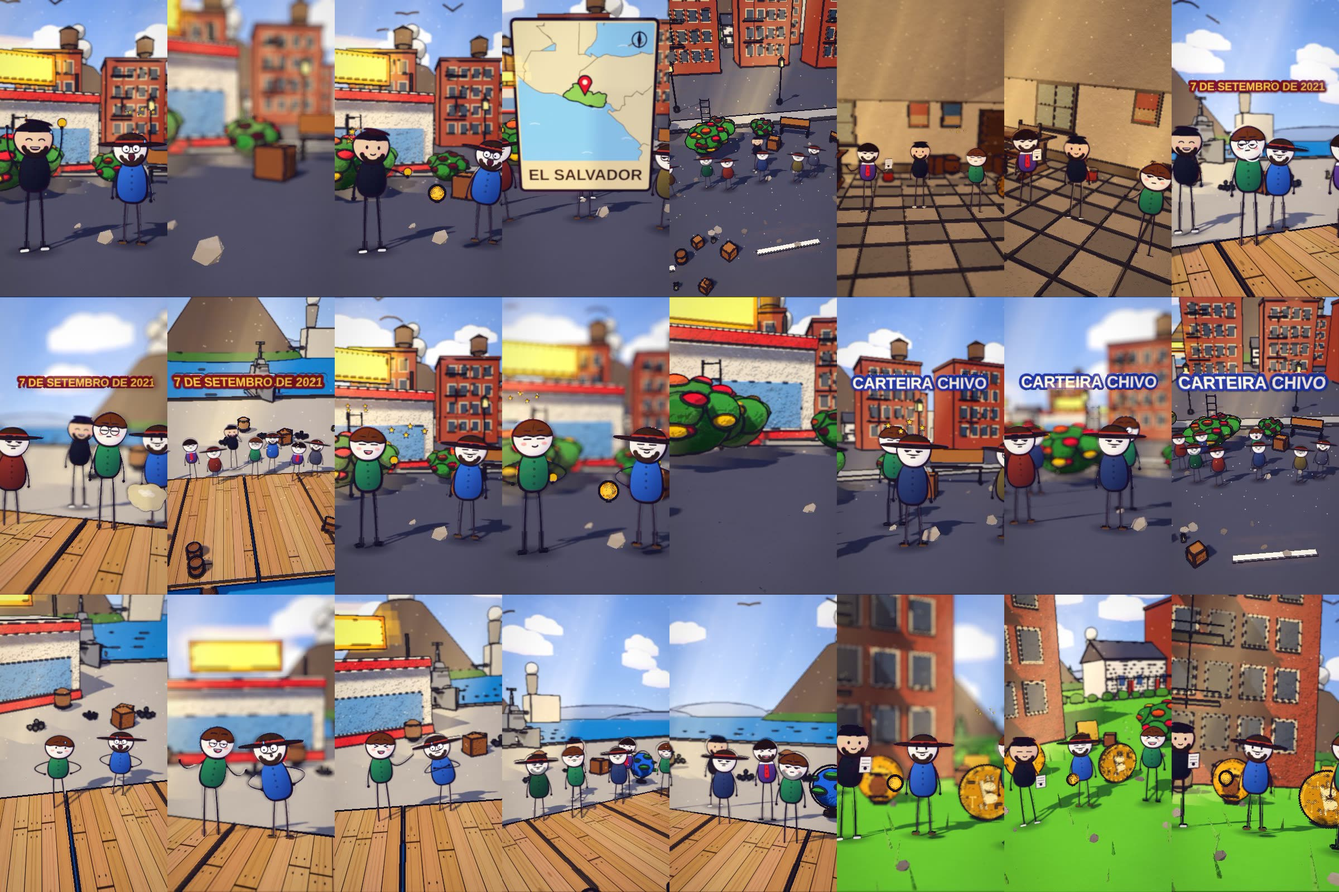
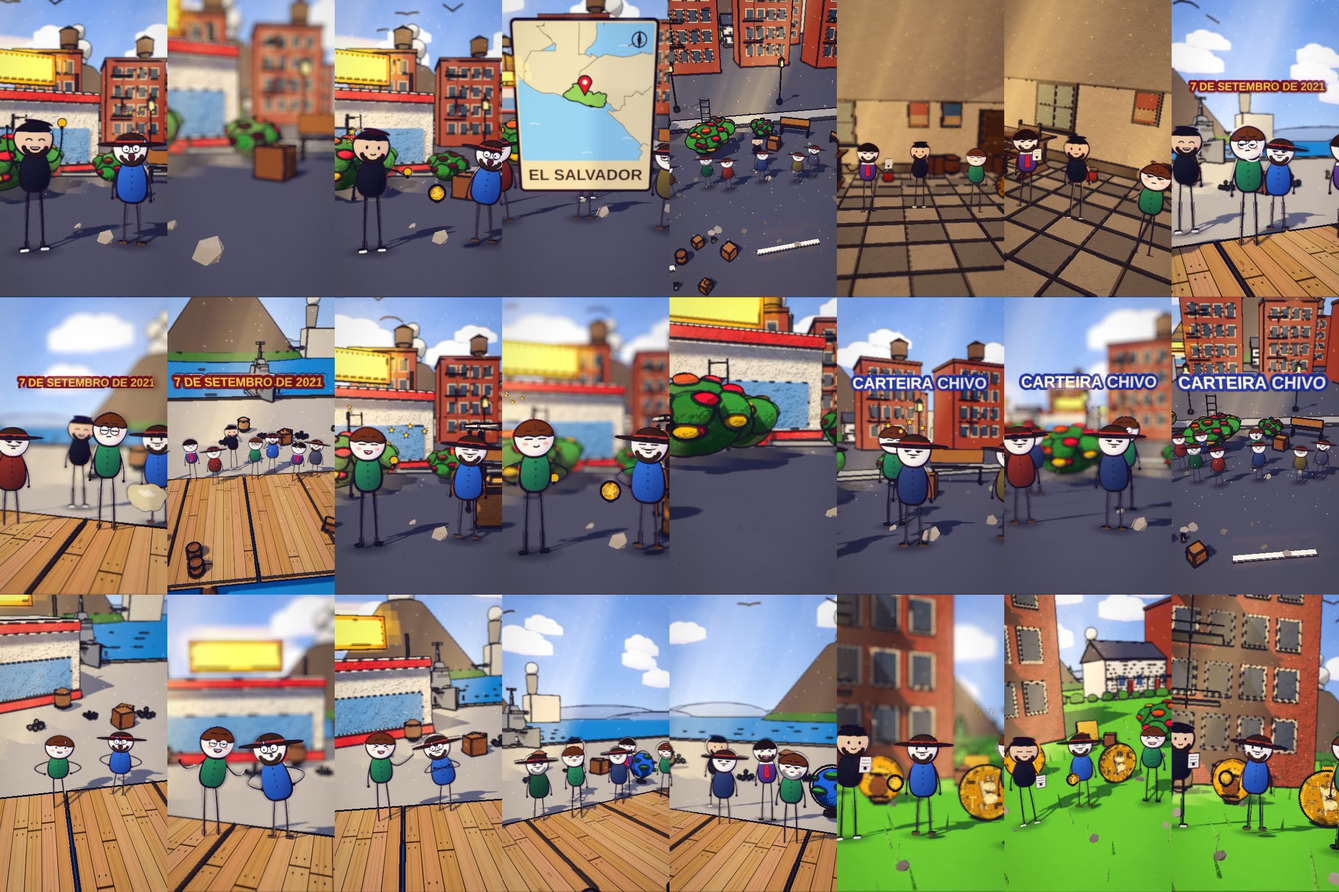
bitcoin2021 b4: close de um personagem com moeda (quadro vazio no instante de pagar)
Claude-Session: https://claude.ai/code/session_01HE8Dy3Tz5Mgz6d3rSUrMHS

Changed region(s): [[0.3438, 0.3371, 0.625, 0.6129], [0.5938, 0.5516, 0.625, 0.5822], [0.4375, 0.3984, 0.4688, 0.429]]

diff --git a/ferramenta-shorts/stories/bitcoin2021/spec.js b/ferramenta-shorts/stories/bitcoin2021/spec.js
@@ -9,14 +9,14 @@ const SPEC = {
     DEP: (v = 0, e = {}) => ({ _id: "dep", jacket: "#6a4a8a", pants: "#2a2d33", boots: "#1b1b1f", hat: "hair", hair: "#2a1a10", tie: "#d8282f", collar: "#f4f4f2", skin: ["#ffe2c2", "#f5c9a0", "#ecd0b6", "#c99067"][v % 4], ...(((v + 217) % 6 === 4 && true) ? { glasses: true } : {}), ...(([1, 5].includes((v + 217) % 6) && true) ? { beard: ['#3a2a1f', '#6b4a2a', '#8a8a86'][(v + 3) % 3] } : {}), ...((((v + 217) % 6 === 3) && true) ? { moustache: ['#4a3020', '#2a201a', '#8a8a86'][v % 3] } : {}), ...e }),
     POV: (v = 0, e = {}) => ({ _id: "pov", jacket: "#c9783a", pants: "#e8dcc0", boots: "#6a4a2a", hat: "straw", cap: "#3b2a1a", moustache: "#3a2a1f", build: "stout", skin: ["#ffe2c2", "#f5c9a0", "#ecd0b6", "#c99067"][v % 4], jacket: ["#3f6fb5", "#6a4a2a", "#2a5a3a", "#8a3a2a", "#3a4a6a", "#7a6a3a", "#5a5a62", "#b0524a"][v % 8], ...(((v + 245) % 6 === 4 && true) ? { glasses: true } : {}), ...(([1, 5].includes((v + 245) % 6) && true) ? { beard: ['#3a2a1f', '#6b4a2a', '#8a8a86'][(v + 3) % 3] } : {}), ...((((v + 245) % 6 === 3) && false) ? { moustache: ['#4a3020', '#2a201a', '#8a8a86'][v % 3] } : {}), ...e }),
     CLI: (v = 0, e = {}) => ({ _id: "cli", jacket: "#3a8a5a", pants: "#2a3a5a", boots: "#1b1b1f", hat: "hair", hair: "#6a3a1a", skin: ["#ffe2c2", "#f5c9a0", "#ecd0b6", "#c99067"][v % 4], ...(((v + 216) % 6 === 4 && true) ? { glasses: true } : {}), ...(([1, 5].includes((v + 216) % 6) && true) ? { beard: ['#3a2a1f', '#6b4a2a', '#8a8a86'][(v + 3) % 3] } : {}), ...((((v + 216) % 6 === 3) && true) ? { moustache: ['#4a3020', '#2a201a', '#8a8a86'][v % 3] } : {}), ...e }) },
-  assets: ["buildings/house_small", "buildings/shop", "kit/bitcoin", "kit/coin", "kit/globe", "kit/room_eua_stone", "kit/stall", "kit/volcano", "mk/Bookcase_2", "mk/Chair_1", "mk/Chest_Wood", "mk/Table_Large"],
+  assets: ["buildings/house_small", "buildings/shop", "kit/bitcoin", "kit/coin", "kit/globe", "kit/room_eua_stone", "kit/volcano", "mk/Bookcase_2", "mk/Chair_1", "mk/Chest_Wood", "mk/Table_Large"],
   kicks: [], flashes: [],
   shots: [
     S('b0', A[0], Math.round(A[0] + (A[1] - 1 + 1 - (A[0])) * 0.36) - 1, X, "day", { h: 2.3, d0: 8.4, d1: 7.4, vary: false, hero: { hero: 'any', frame: 'medium', minH: 0.07, main: 2 }, actors: [Object.assign(pp(X, "BUK", 0, -1.15, 1.3, "smile", { over: { hold: "coin" }, inter: { k: 'step', a: Math.round(A[0] + (A[1] - 1 - (A[0])) * 0.12), b: Math.round(A[0] + (A[1] - 1 - (A[0])) * 0.82), dir: 1, n: 2, ph: 0 } }), { gests: [[WS(20) - 4, WS(20) + 46, 'reach']] }), pp(X, "POV", 0, 1.15, 1.0, "surprised", { pose: 'talk', inter: { k: 'recoil', a: Math.round(A[0] + (A[1] - 1 - (A[0])) * 0.2), b: Math.round(A[0] + (A[1] - 1 - (A[0])) * 0.9), dir: -1, n: 2, ph: 3.14 } })], props: [{ asset: "buildings/shop", at: [X + -4.8, -11.0], s: 1.05, ry: 0.35, drop: false }, { asset: "kit/bitcoin", at: [X + 3.15, 0.3], s: 1.3, drop: false }, { asset: "kit/volcano", at: [X + 0, -120], s: 9.0, drop: false }, { asset: 'kit/coin', a: Math.max(A[0] + 4, WS(20) - 20), b: A[1] - 1, at: [X + 0.35, 1.8], y: DK + 1.25, s: 0.32, drop: false }], fx: [{ k: 'stars', a: A[0] + 6, b: A[0] + 40, at: [X + 1.5, DK + 1.6, 0.8], s: 0.8 }, { k: 'birds', a: A[0], b: A[1] - 1, at: [X, DK + 4.5, -30], n: 4, dir: 1, off: 8 }, { k: "stars", a: WS(20), b: WS(20) + 28, at: [X + -1.15, DK + 0.5, 2.5], s: 1.1 }] }), { ...S('b0_d', Math.round(A[0] + (A[1] - 1 + 1 - (A[0])) * 0.36), Math.round(A[0] + (A[1] - 1 + 1 - (A[0])) * 0.6) - 1, X, "day", { h: 2.3, d0: 8.4, d1: 7.4, vary: false, hero: { hero: 'none', detalhe: true }, actors: [Object.assign(pp(X, "BUK", 0, -1.15, 1.3, "smile", { over: { hold: "coin" } }), { gests: [[WS(20) - 4, WS(20) + 46, 'reach']] }), pp(X, "POV", 0, 1.15, 1.0, "surprised", { pose: 'stand' })], props: [{ asset: "buildings/shop", at: [X + -4.8, -11.0], s: 1.05, drop: false, ry: 0.35, drop: false }, { asset: "kit/bitcoin", at: [X + 3.15, 0.3], s: 1.3, drop: false }, { asset: "kit/volcano", at: [X + 0, -120], s: 9.0, drop: false }, { asset: 'kit/coin', a: Math.max(A[0] + 4, WS(20) - 20), b: A[1] - 1, at: [X + 0.35, 1.8], y: DK + 1.25, s: 0.32, drop: false }], fx: [{ k: 'stars', a: A[0] + 6, b: A[0] + 40, at: [X + 1.5, DK + 1.6, 0.8], s: 0.8 }, { k: 'birds', a: A[0], b: A[1] - 1, at: [X, DK + 4.5, -30], n: 4, dir: 1, off: 8 }, { k: "stars", a: WS(20), b: WS(20) + 28, at: [X + -1.15, DK + 0.5, 2.5], s: 1.1 }] }), cam: [{ f: Math.round(A[0] + (A[1] - 1 + 1 - (A[0])) * 0.36), at: [X + 1.5, DK + 0.975, 0.3], d: 4.2, az: -14, el: 10, fov: 44 }, { f: Math.round(A[0] + (A[1] - 1 + 1 - (A[0])) * 0.6) - 1, at: [X + 1.5, DK + 0.975, 0.3], d: 3.4, az: -8, el: 9, fov: 44 }], nocut: true, vary: false, glide: true, glideN: 34 }, { ...S('b0_v', Math.round(A[0] + (A[1] - 1 + 1 - (A[0])) * 0.6), A[1] - 1, X, "day", { h: 2.3, d0: 8.4, d1: 7.4, vary: false, hero: { hero: 'any', frame: 'medium', minH: 0.07, main: 2 }, actors: [Object.assign(pp(X, "BUK", 0, -1.15, 1.3, "smile", { over: { hold: "coin" }, inter: { k: 'step', a: Math.round(A[0] + (A[1] - 1 - (A[0])) * 0.12), b: Math.round(A[0] + (A[1] - 1 - (A[0])) * 0.82), dir: 1, n: 2, ph: 0 } }), { gests: [[WS(20) - 4, WS(20) + 46, 'reach']] }), pp(X, "POV", 0, 1.15, 1.0, "surprised", { pose: 'talk', inter: { k: 'recoil', a: Math.round(A[0] + (A[1] - 1 - (A[0])) * 0.2), b: Math.round(A[0] + (A[1] - 1 - (A[0])) * 0.9), dir: -1, n: 2, ph: 3.14 } })], props: [{ asset: "buildings/shop", at: [X + -4.8, -11.0], s: 1.05, drop: false, ry: 0.35, drop: false }, { asset: "kit/bitcoin", at: [X + 3.15, 0.3], s: 1.3, drop: false }, { asset: "kit/volcano", at: [X + 0, -120], s: 9.0, drop: false }, { asset: 'kit/coin', a: Math.max(A[0] + 4, WS(20) - 20), b: A[1] - 1, at: [X + 0.35, 1.8], y: DK + 1.25, s: 0.32, drop: false }], fx: [{ k: 'stars', a: A[0] + 6, b: A[0] + 40, at: [X + 1.5, DK + 1.6, 0.8], s: 0.8 }, { k: 'birds', a: A[0], b: A[1] - 1, at: [X, DK + 4.5, -30], n: 4, dir: 1, off: 8 }, { k: "stars", a: WS(20), b: WS(20) + 28, at: [X + -1.15, DK + 0.5, 2.5], s: 1.1 }] }), glide: true, glideN: 34 },
     { ...{ ...S('b1', A[1], A[2] - 1, X, "day", { h: 2.4, d0: 11.0, d1: 27.0, el: 10, fov: 46, cx: 0.0, cz: -1.5, hero: { hero: 'none', wide: true }, vary: false, nocut: true, trans: 'dissolve', actors: [Object.assign(pp(X, "BUK", 0, 0.0, -0.4, "smug"), { gests: [[WS(32) - 4, WS(32) + 46, 'think']] }), pp(X, "POV", 0, -8.05, 0.84, "neutral", { look: -0.25, seed: 0 }), pp(X, "POV", 1, -5.79, 1.32, "neutral", { look: 0.25, seed: 1 }), pp(X, "POV", 2, -3.53, 0.96, "neutral", { look: 0.0, seed: 2 }), pp(X, "POV", 3, -2.26, 1.44, "neutral", { look: 0.15, seed: 3 }), pp(X, "POV", 4, 0.0, 1.08, "neutral", { look: -0.25, seed: 0 }), pp(X, "POV", 5, 2.26, 1.56, "neutral", { look: 0.25, seed: 1 }), pp(X, "POV", 6, 3.53, 1.2, "neutral", { look: 0.0, seed: 2 }), pp(X, "POV", 0, 5.79, 0.84, "neutral", { look: 0.15, seed: 3 })], props: [{ asset: "kit/volcano", at: [X + 0, -120], s: 9.0, drop: false }], fx: [{ k: 'map', a: WS(23, -2), b: Math.min(A[2] - 1, WS(23, -2) + 54), text: "EL SALVADOR", geo: {"polys": [[656, 174, 654, 177, 652, 178, 647, 187, 646, 188, 645, 181, 643, 181, 640, 183, 638, 186, 641, 190, 643, 190, 646, 192, 654, 221, 652, 226, 647, 234, 643, 241, 638, 246, 632, 264, 627, 294, 631, 321, 629, 346, 631, 352, 631, 360, 627, 361, 625, 361, 623, 356, 623, 352, 626, 348, 627, 341, 625, 338, 623, 345, 619, 348, 617, 350, 614, 353, 617, 360, 620, 365, 621, 369, 620, 373, 619, 388, 618, 387, 617, 385, 613, 385, 613, 391, 613, 394, 610, 397, 609, 399, 612, 401, 614, 402, 618, 402, 621, 409, 621, 415, 615, 420, 613, 425, 609, 430, 607, 436, 606, 440, 609, 452, 613, 460, 617, 466, 622, 467, 621, 473, 617, 477, 610, 480, 603, 480, 590, 477, 585, 477, 583, 475, 583, 473, 579, 468, 573, 463, 569, 463, 563, 462, 553, 458, 548, 457, 541, 461, 534, 465, 515, 458, 501, 454, 490, 449, 486, 448, 484, 448, 482, 450, 479, 454, 478, 455, 477, 456, 475, 457, 475, 455, 469, 447, 460, 437, 425, 408, 412, 391, 405, 378, 398, 371, 379, 358, 374, 353, 355, 335, 341, 324, 341, 320, 347, 314, 350, 314, 353, 318, 358, 323, 360, 323, 364, 321, 364, 319, 383, 318, 387, 317, 390, 313, 392, 309, 393, 305, 393, 301, 396, 298, 402, 297, 406, 297, 408, 295, 406, 288, 404, 272, 404, 267, 404, 264, 406, 262, 415, 262, 431, 263, 434, 262, 441, 253, 447, 246, 451, 243, 455, 242, 458, 248, 472, 257, 475, 256, 476, 256, 476, 254, 476, 250, 480, 247, 487, 243, 494, 238, 501, 229, 507, 224, 513, 223, 515, 221, 513, 218, 514, 213, 516, 208, 519, 204, 523, 204, 525, 202, 524, 199, 525, 196, 528, 191, 537, 187, 542, 189, 546, 194, 552, 198, 559, 200, 565, 199, 570, 196, 573, 195, 577, 196, 578, 195, 579, 192, 580, 192, 584, 193, 587, 194, 589, 193, 590, 191, 591, 190, 592, 189, 599, 190, 606, 188, 615, 184, 620, 182, 623, 182, 626, 180, 629, 175, 638, 173, 656, 174], [-1717, -1087, -1549, -1101, -1325, -1011, -1094, -1001, -1017, -1033, -941, -1006, -847, -905, -776, -848, -721, -856, -659, -891, -611, -879, -544, -798, -492, -735, -482, -694, -434, -642, -342, -610, -340, -562, -364, -394, -336, -302, -343, -302, -336, -265, -250, -128, -215, -92, -149, -67, -40, -73, 40, -94, 89, -87, 76, -104, 144, -182, 186, -276, 306, -301, 376, -295, 378, -303, 393, -243, 352, -174, 357, -150, 352, -137, 321, -74, 299, -79, 255, -36, 135, -29, 93, 22, 145, 70, 92, 97, 33, 168, 24, 204, -83, 110, -122, 89, -145, 77, -173, 80, -256, 124, -444, 62, -601, 1, -698, -45, -828, -121, -913, -209, -899, -242, -884, -293, -956, -406, -1044, -500, -1080, -524, -1083, -550, -1151, -580, -1163, -588, -1157, -636, -1207, -673, -1258, -722, -1297, -759, -1362, -826, -1398, -885, -1434, -973, -1444, -996, -1504, -1014, -1557, -1035, -1543, -922, -1467, -841, -1435, -798, -1411, -754, -1359, -687, -1344, -681, -1309, -602, -1270, -516, -1241, -492, -1199, -460, -1207, -396, -1272, -465, -1346, -519, -1366, -591, -1439, -686, -1498, -689, -1558, -737, -1518, -750, -1516, -755, -1564, -859, -1625, -927, -1661, -992, -1681, -1038], [656, 174, 629, 175, 623, 182, 615, 184, 599, 190, 591, 190, 589, 193, 584, 193, 579, 192, 577, 196, 570, 196, 559, 200, 546, 194, 537, 187, 525, 196, 525, 202, 519, 204, 514, 213, 515, 221, 507, 224, 494, 238, 480, 247, 476, 254, 475, 256, 458, 248, 451, 243, 441, 253, 431, 263, 406, 262, 404, 267, 406, 288, 406, 297, 396, 298, 393, 305, 390, 313, 383, 318, 364, 311, 356, 302, 354, 295, 346, 290, 334, 290, 336, 285, 335, 281, 333, 276, 337, 259, 331, 253, 318, 254, 312, 248, 299, 250, 286, 256, 283, 252, 282, 247, 271, 244, 266, 240, 257, 234, 246, 224, 239, 219, 224, 216, 224, 212, 236, 202, 234, 189, 233, 181, 238, 168, 250, 163, 270, 148, 292, 129, 302, 121, 314, 118, 324, 111, 338, 108, 350, 114, 361, 114, 394, 119, 424, 116, 445, 110, 462, 105, 458, 100, 493, 109, 524, 104, 552, 110, 563, 116, 567, 114, 561, 111, 613, 142, 599, 136, 589, 138, 590, 145, 596, 144, 606, 148, 614, 158, 620, 155, 629, 158, 628, 152, 622, 147, 646, 168, 656, 174], [428, 74, 417, 80, 413, 80, 418, 76, 427, 72, 434, 70, 440, 71, 428, 74], [466, 68, 461, 73, 460, 71, 463, 67, 466, 65, 469, 65, 468, 67, 466, 68], [22, 206, 24, 204, 25, 200, 27, 196, 26, 191, 25, 187, 27, 181, 27, 176, 28, 173, 31, 172, 33, 168, 24, 156, 24, 154, 25, 150, 32, 138, 41, 123, 51, 106, 57, 97, 78, 97, 92, 97, 110, 97, 129, 97, 142, 97, 147, 96, 146, 90, 147, 83, 149, 76, 149, 74, 145, 70, 138, 68, 134, 65, 134, 61, 132, 56, 128, 51, 121, 45, 110, 39, 100, 31, 93, 22, 86, 15, 81, 13, 80, 11, 95, 11, 109, 11, 109, -2, 109, -15, 109, -29, 135, -29, 165, -29, 197, -29, 222, -29, 237, -29, 236, -11, 235, 9, 235, 24, 234, 43, 233, 64, 232, 91, 231, 109, 232, 110, 240, 109, 252, 109, 255, 109, 259, 111, 262, 111, 268, 115, 276, 119, 280, 112, 278, 109, 276, 107, 276, 105, 302, 121, 299, 124, 292, 129, 280, 139, 270, 148, 260, 155, 250, 163, 249, 163, 238, 168, 236, 171, 233, 181, 232, 183, 234, 189, 236, 197, 236, 202, 228, 207, 224, 212, 223, 215, 221, 215, 219, 214, 213, 216, 210, 216, 208, 217, 207, 220, 209, 225, 210, 228, 208, 229, 201, 232, 198, 235, 195, 240, 192, 242, 189, 241, 187, 242, 182, 246, 175, 252, 171, 257, 171, 261, 171, 264, 145, 253, 136, 251, 98, 251, 82, 246, 63, 237, 51, 229, 22, 206], [223, 215, 224, 216, 236, 219, 239, 219, 244, 222, 246, 224, 248, 227, 257, 234, 259, 236, 266, 240, 268, 243, 271, 244, 277, 245, 282, 247, 282, 248, 283, 252, 284, 256, 286, 256, 289, 254, 299, 250, 307, 246, 312, 248, 315, 252, 318, 254, 325, 253, 331, 253, 336, 257, 337, 259, 334, 271, 333, 276, 333, 280, 335, 281, 336, 283, 336, 285, 331, 289, 329, 290, 330, 297, 326, 301, 323, 304, 316, 305, 305, 306, 288, 302, 276, 297, 270, 297, 272, 299, 277, 300, 284, 303, 282, 304, 257, 297, 228, 283, 211, 281, 192, 277, 180, 268, 171, 264, 171, 261, 171, 257, 175, 252, 182, 246, 187, 242, 189, 241, 192, 242, 195, 240, 198, 235, 201, 232, 208, 229, 210, 228, 209, 225, 207, 220, 208, 217, 210, 216, 213, 216, 219, 214, 221, 215, 223, 215], [697, 564, 697, 565, 696, 566, 694, 568, 692, 569, 686, 566, 681, 562, 678, 564, 677, 568, 675, 570, 672, 571, 671, 573, 671, 587, 671, 601, 675, 601, 682, 606, 685, 609, 686, 611, 685, 612, 680, 615, 675, 619, 673, 624, 677, 631, 678, 636, 678, 642, 677, 644, 667, 650, 665, 653, 665, 654, 670, 658, 673, 663, 675, 668, 675, 672, 671, 664, 664, 656, 658, 652, 658, 641, 656, 635, 647, 629, 639, 625, 634, 626, 637, 632, 646, 640, 647, 644, 646, 648, 641, 647, 635, 645, 629, 645, 625, 642, 616, 633, 622, 624, 624, 619, 624, 608, 622, 603, 615, 594, 604, 585, 589, 578, 582, 572, 563, 567, 556, 564, 551, 559, 550, 554, 552, 548, 547, 540, 526, 525, 513, 519, 511, 516, 509, 515, 511, 525, 516, 532, 530, 538, 534, 541, 535, 546, 527, 555, 523, 557, 522, 562, 519, 563, 516, 560, 505, 547, 484, 540, 480, 536, 471, 523, 468, 512, 469, 505, 478, 493, 481, 487, 480, 484, 481, 480, 477, 476, 469, 472, 464, 469, 465, 467, 475, 462, 475, 458, 475, 457, 477, 456, 478, 455, 479, 454, 482, 450, 484, 448, 486, 448, 490, 449, 501, 454, 515, 458, 534, 465, 541, 461, 548, 457, 553, 458, 563, 462, 569, 463, 573, 463, 579, 468, 583, 473, 583, 475, 585, 477, 590, 477, 603, 480, 610, 480, 617, 477, 621, 473, 622, 467, 624, 470, 626, 475, 627, 480, 636, 500, 643, 510, 658, 530, 665, 534, 676, 550, 680, 552, 682, 557, 694, 561, 697, 564], [237, -29, 236, -35, 238, -40, 244, -42, 252, -38, 255, -36, 258, -37, 261, -40, 266, -47, 277, -63, 281, -74, 285, -77, 292, -77, 297, -76, 293, -68, 297, -67, 301, -68, 309, -67, 312, -59, 311, -51, 303, -31, 302, -24, 299, -14, 304, -7, 299, 2, 297, 7, 297, 16, 300, 32, 296, 56, 289, 66, 285, 70, 278, 81, 269, 84, 256, 100, 254, 105, 255, 109, 252, 109, 240, 109, 232, 110, 231, 109, 232, 91, 233, 64, 234, 43, 235, 24, 235, 9, 236, -11, 237, -29], [328, -1, 323, 9, 322, 6, 324, -1, 327, -4, 329, -6, 330, -10, 332, -8, 332, -5, 328, -1]], "hl": [6], "pin": [254.0, 260.0]} }, { k: 'ring', a: WS(32) + 6, b: WS(32) + 34, at: [X + 0.0, DK + 3.6, 1.5], s: 0.7 }] }), nocut: true }, cam: [{ f: A[1], at: [X + 0.0, DK + 2.0, 0.5], d: 9, az: 10, el: 5, fov: 46 }, { f: A[2] - 1, at: [X + 0.0, DK + 1.0, -2.0], d: 30, az: -14, el: 30, fov: 48 }], nocut: true },
     S('b2', A[2], A[3] - 1, X_hall, "study", { h: 2.5, d0: 11.3, d1: 9.944, hero: { hero: 'any', frame: 'medium', minH: 0.07, main: 3 }, trans: 'dissolve', actors: [pp(X_hall, "DEP", 0, -2.1, 1.3, "neutral", { over: { hold: "paper" }, inter: { k: 'nod', a: Math.round(A[2] + (A[3] - 1 - (A[2])) * 0.12), b: Math.round(A[2] + (A[3] - 1 - (A[2])) * 0.82), dir: 1, n: 2, ph: 0 } }), pp(X_hall, "BUK", 0, 0.0, 1.0, "smile", { pose: 'talk', inter: { k: 'lean', a: Math.round(A[2] + (A[3] - 1 - (A[2])) * 0.2), b: Math.round(A[2] + (A[3] - 1 - (A[2])) * 0.9), dir: -1, n: 2, ph: 3.14 } }), pp(X_hall, "CLI", 0, 2.1, 1.6, "neutral", { pose: 'talk' })], props: [{ asset: "kit/room_eua_stone", at: [X_hall, 0], s: 1, drop: false }, { asset: "mk/Bookcase_2", at: [X_hall + 7.4, -3.4], s: 2.4, drop: false }, { asset: "mk/Table_Large", at: [X_hall + -6.6, -1.6], s: 2.2, drop: false }, { asset: "mk/Chair_1", at: [X_hall + -4.4, -1.2], s: 2.2, drop: false }, { asset: "mk/Chest_Wood", at: [X_hall + 6.9, 0.6], s: 2.2, drop: false }, { asset: "kit/bitcoin", at: [X_hall + 4.1, 0.3], s: 1.1, drop: false }], fx: [{ k: 'stars', a: A[2] + 6, b: A[2] + 40, at: [X_hall + 1.6, DK + 1.6, 0.8], s: 0.8 }] }),
     { ...{ ...S('b3', A[3], Math.round(A[3] + (A[4] - 1 + 1 - (A[3])) * 0.3) - 1, X_harbor, "day", { h: 2.6, d0: 25.0, d1: 19.0, el: 11, cx: 0.0, cz: -1.5, hero: { hero: 'none', wide: true }, vary: false, nocut: true, trans: 'dissolve', actors: [pp(X_harbor, "BUK", 0, -1.15, -0.4, "grin"), pp(X_harbor, "POV", 0, 1.15, 0.2, "smile"), pp(X_harbor, "POV", 0, -8.05, 0.84, "neutral", { look: -0.25, seed: 0 }), pp(X_harbor, "CLI", 1, -5.79, 1.32, "neutral", { look: 0.25, seed: 1 }), pp(X_harbor, "DEP", 2, -3.53, 0.96, "neutral", { look: 0.0, seed: 2 }), pp(X_harbor, "POV", 3, -2.26, 1.44, "neutral", { look: 0.15, seed: 3 }), pp(X_harbor, "CLI", 4, 0.0, 1.08, "neutral", { look: -0.25, seed: 0 }), pp(X_harbor, "DEP", 5, 2.26, 1.56, "neutral", { look: 0.25, seed: 1 }), pp(X_harbor, "POV", 6, 3.53, 1.2, "neutral", { look: 0.0, seed: 2 }), pp(X_harbor, "CLI", 0, 5.79, 0.84, "neutral", { look: 0.15, seed: 3 })], props: [{ asset: "kit/volcano", at: [X_harbor + 0, -120], s: 9.0, drop: false }], fx: [{ k: 'birds', a: A[3], b: A[4] - 1, at: [X_harbor, DK + 4.5, -30], n: 4, dir: -1, off: 15 }, txt(X_harbor, WS(48, -2), A[4] - 1, "7 DE SETEMBRO DE 2021", '#e8c45a', '#7a1c1c', 4.8, { s: 1.5, up: 0.42 }), { k: "ring", a: A[3] + 12, b: A[3] + 38, at: [X_harbor, DK + 0.5, 1.2], s: 1.1 }, { k: "dust", a: A[3] + 40, b: A[3] + 66, at: [X_harbor + 0.9, DK + 0.12, 1.0], s: 0.75 }] }), nocut: true }, cam: [{ f: A[3], at: [X_harbor + 0.0, DK + 2.2, 0.5], d: 8.5, az: -26, el: 2, fov: 44 }, { f: Math.round(A[3] + (A[4] - 1 + 1 - (A[3])) * 0.3) - 1, at: [X_harbor + 1.0, DK + 2.2, 0.5], d: 7.4, az: -14, el: 3, fov: 44 }], nocut: true, vary: false }, { ...{ ...S('b3_1', Math.round(A[3] + (A[4] - 1 + 1 - (A[3])) * 0.3), Math.round(A[3] + (A[4] - 1 + 1 - (A[3])) * 0.55) - 1, X_harbor, "day", { h: 2.6, d0: 25.0, d1: 19.0, el: 11, cx: 0.0, cz: -1.5, hero: { hero: 'none', wide: true }, vary: false, nocut: true, trans: 'cut', actors: [pp(X_harbor, "BUK", 0, -1.15, -0.4, "grin"), pp(X_harbor, "POV", 0, 1.15, 0.2, "smile"), pp(X_harbor, "POV", 0, -8.05, 0.84, "neutral", { look: -0.25, seed: 0 }), pp(X_harbor, "CLI", 1, -5.79, 1.32, "neutral", { look: 0.25, seed: 1 }), pp(X_harbor, "DEP", 2, -3.53, 0.96, "neutral", { look: 0.0, seed: 2 }), pp(X_harbor, "POV", 3, -2.26, 1.44, "neutral", { look: 0.15, seed: 3 }), pp(X_harbor, "CLI", 4, 0.0, 1.08, "neutral", { look: -0.25, seed: 0 }), pp(X_harbor, "DEP", 5, 2.26, 1.56, "neutral", { look: 0.25, seed: 1 }), pp(X_harbor, "POV", 6, 3.53, 1.2, "neutral", { look: 0.0, seed: 2 }), pp(X_harbor, "CLI", 0, 5.79, 0.84, "neutral", { look: 0.15, seed: 3 })], props: [{ asset: "kit/volcano", at: [X_harbor + 0, -120], s: 9.0, drop: false }], fx: [{ k: 'birds', a: A[3], b: A[4] - 1, at: [X_harbor, DK + 4.5, -30], n: 4, dir: -1, off: 15 }, txt(X_harbor, WS(48, -2), A[4] - 1, "7 DE SETEMBRO DE 2021", '#e8c45a', '#7a1c1c', 4.8, { s: 1.5, up: 0.42 }), { k: "ring", a: A[3] + 12, b: A[3] + 38, at: [X_harbor, DK + 0.5, 1.2], s: 1.1 }, { k: "dust", a: A[3] + 40, b: A[3] + 66, at: [X_harbor + 0.9, DK + 0.12, 1.0], s: 0.75 }] }), nocut: true }, cam: [{ f: Math.round(A[3] + (A[4] - 1 + 1 - (A[3])) * 0.3), at: [X_harbor + -6.0, DK + 1.8, 0.0], d: 11, az: 30, el: 5, fov: 46 }, { f: Math.round(A[3] + (A[4] - 1 + 1 - (A[3])) * 0.55) - 1, at: [X_harbor + 4.0, DK + 1.8, 0.0], d: 11, az: 18, el: 5, fov: 46, ease: "lin" }], nocut: true, vary: false, glide: true }, { ...{ ...S('b3_2', Math.round(A[3] + (A[4] - 1 + 1 - (A[3])) * 0.55), A[4] - 1, X_harbor, "day", { h: 2.6, d0: 25.0, d1: 19.0, el: 11, cx: 0.0, cz: -1.5, hero: { hero: 'none', wide: true }, vary: false, nocut: true, trans: 'cut', actors: [pp(X_harbor, "BUK", 0, -1.15, -0.4, "grin"), pp(X_harbor, "POV", 0, 1.15, 0.2, "smile"), pp(X_harbor, "POV", 0, -8.05, 0.84, "neutral", { look: -0.25, seed: 0 }), pp(X_harbor, "CLI", 1, -5.79, 1.32, "neutral", { look: 0.25, seed: 1 }), pp(X_harbor, "DEP", 2, -3.53, 0.96, "neutral", { look: 0.0, seed: 2 }), pp(X_harbor, "POV", 3, -2.26, 1.44, "neutral", { look: 0.15, seed: 3 }), pp(X_harbor, "CLI", 4, 0.0, 1.08, "neutral", { look: -0.25, seed: 0 }), pp(X_harbor, "DEP", 5, 2.26, 1.56, "neutral", { look: 0.25, seed: 1 }), pp(X_harbor, "POV", 6, 3.53, 1.2, "neutral", { look: 0.0, seed: 2 }), pp(X_harbor, "CLI", 0, 5.79, 0.84, "neutral", { look: 0.15, seed: 3 })], props: [{ asset: "kit/volcano", at: [X_harbor + 0, -120], s: 9.0, drop: false }], fx: [{ k: 'birds', a: A[3], b: A[4] - 1, at: [X_harbor, DK + 4.5, -30], n: 4, dir: -1, off: 15 }, txt(X_harbor, WS(48, -2), A[4] - 1, "7 DE SETEMBRO DE 2021", '#e8c45a', '#7a1c1c', 4.8, { s: 1.5, up: 0.42 }), { k: "ring", a: A[3] + 12, b: A[3] + 38, at: [X_harbor, DK + 0.5, 1.2], s: 1.1 }, { k: "dust", a: A[3] + 40, b: A[3] + 66, at: [X_harbor + 0.9, DK + 0.12, 1.0], s: 0.75 }] }), nocut: true }, cam: [{ f: Math.round(A[3] + (A[4] - 1 + 1 - (A[3])) * 0.55), at: [X_harbor + 0.0, DK + 1.4, 0.0], d: 15, az: 8, el: 12, fov: 48 }, { f: A[4] - 1, at: [X_harbor + 0.0, DK + 1.0, -3.0], d: 34, az: -16, el: 30, fov: 48 }], nocut: true, vary: false, glide: true },
-    S('b4', A[4], Math.round(A[4] + (A[5] - 1 + 1 - (A[4])) * 0.36) - 1, X, "day", { h: 2.3, d0: 8.4, d1: 7.4, vary: false, hero: { hero: 'any', frame: 'medium', minH: 0.07, main: 2 }, trans: 'dissolve', actors: [Object.assign(pp(X, "CLI", 0, -1.15, 1.3, "smile", { over: { hold: "coin" }, pose: 'talk', inter: { k: 'step', a: Math.round(A[4] + (A[5] - 1 - (A[4])) * 0.12), b: Math.round(A[4] + (A[5] - 1 - (A[4])) * 0.82), dir: 1, n: 2, ph: 0 } }), { gests: [[WS(67) - 4, WS(67) + 46, 'reach']] }), pp(X, "POV", 0, 1.15, 1.0, "grin", { pose: 'talk', inter: { k: 'nod', a: Math.round(A[4] + (A[5] - 1 - (A[4])) * 0.2), b: Math.round(A[4] + (A[5] - 1 - (A[4])) * 0.9), dir: -1, n: 2, ph: 3.14 } })], props: [{ asset: "buildings/shop", at: [X + -4.8, -11.0], s: 1.05, ry: 0.35, drop: false }, { asset: "kit/stall", at: [X + 3.15, -0.5], s: 1.2, drop: false }, { asset: "kit/bitcoin", at: [X + -3.15, 0.3], s: 1.0, drop: false }, { asset: "kit/volcano", at: [X + 0, -120], s: 9.0, drop: false }, { asset: 'kit/coin', a: Math.max(A[4] + 4, WS(67) - 20), b: A[5] - 1, at: [X + 0.35, 1.8], y: DK + 1.25, s: 0.32, drop: false }], fx: [{ k: 'stars', a: A[4] + 6, b: A[4] + 40, at: [X + -1.6, DK + 1.6, 0.8], s: 0.8 }, { k: 'birds', a: A[4], b: A[5] - 1, at: [X, DK + 6.0, -30], n: 5, dir: 1, off: 8 }, { k: "stars", a: A[4] + 3, b: A[4] + 29, at: [X, DK + 0.5, 1.2], s: 1.1 }, { k: "stars", a: WS(67), b: WS(67) + 28, at: [X + -1.15, DK + 0.5, 2.5], s: 1.1 }] }), { ...S('b4_d', Math.round(A[4] + (A[5] - 1 + 1 - (A[4])) * 0.36), Math.round(A[4] + (A[5] - 1 + 1 - (A[4])) * 0.6) - 1, X, "day", { h: 2.3, d0: 8.4, d1: 7.4, vary: false, hero: { hero: 'none', detalhe: true }, trans: 'cut', actors: [Object.assign(pp(X, "CLI", 0, -1.15, 1.3, "smile", { over: { hold: "coin" }, pose: 'stand' }), { gests: [[WS(67) - 4, WS(67) + 46, 'reach']] }), pp(X, "POV", 0, 1.15, 1.0, "grin", { pose: 'stand' })], props: [{ asset: "buildings/shop", at: [X + -4.8, -11.0], s: 1.05, drop: false, ry: 0.35, drop: false }, { asset: "kit/stall", at: [X + 3.15, -0.5], s: 1.2, drop: false }, { asset: "kit/bitcoin", at: [X + -3.15, 0.3], s: 1.0, drop: false }, { asset: "kit/volcano", at: [X + 0, -120], s: 9.0, drop: false }, { asset: 'kit/coin', a: Math.max(A[4] + 4, WS(67) - 20), b: A[5] - 1, at: [X + 0.35, 1.8], y: DK + 1.25, s: 0.32, drop: false }], fx: [{ k: 'stars', a: A[4] + 6, b: A[4] + 40, at: [X + -1.6, DK + 1.6, 0.8], s: 0.8 }, { k: 'birds', a: A[4], b: A[5] - 1, at: [X, DK + 6.0, -30], n: 5, dir: 1, off: 8 }, { k: "stars", a: A[4] + 3, b: A[4] + 29, at: [X, DK + 0.5, 1.2], s: 1.1 }, { k: "stars", a: WS(67), b: WS(67) + 28, at: [X + -1.15, DK + 0.5, 2.5], s: 1.1 }] }), cam: [{ f: Math.round(A[4] + (A[5] - 1 + 1 - (A[4])) * 0.36), at: [X + -1.6, DK + 0.75, 0.3], d: 4.2, az: 14, el: 10, fov: 44 }, { f: Math.round(A[4] + (A[5] - 1 + 1 - (A[4])) * 0.6) - 1, at: [X + -1.6, DK + 0.75, 0.3], d: 3.4, az: 8, el: 9, fov: 44 }], nocut: true, vary: false, glide: true, glideN: 34 }, { ...S('b4_v', Math.round(A[4] + (A[5] - 1 + 1 - (A[4])) * 0.6), A[5] - 1, X, "day", { h: 2.3, d0: 8.4, d1: 7.4, vary: false, hero: { hero: 'any', frame: 'medium', minH: 0.07, main: 2 }, trans: 'cut', actors: [Object.assign(pp(X, "CLI", 0, -1.15, 1.3, "smile", { over: { hold: "coin" }, pose: 'talk', inter: { k: 'step', a: Math.round(A[4] + (A[5] - 1 - (A[4])) * 0.12), b: Math.round(A[4] + (A[5] - 1 - (A[4])) * 0.82), dir: 1, n: 2, ph: 0 } }), { gests: [[WS(67) - 4, WS(67) + 46, 'reach']] }), pp(X, "POV", 0, 1.15, 1.0, "grin", { pose: 'talk', inter: { k: 'nod', a: Math.round(A[4] + (A[5] - 1 - (A[4])) * 0.2), b: Math.round(A[4] + (A[5] - 1 - (A[4])) * 0.9), dir: -1, n: 2, ph: 3.14 } })], props: [{ asset: "buildings/shop", at: [X + -4.8, -11.0], s: 1.05, drop: false, ry: 0.35, drop: false }, { asset: "kit/stall", at: [X + 3.15, -0.5], s: 1.2, drop: false }, { asset: "kit/bitcoin", at: [X + -3.15, 0.3], s: 1.0, drop: false }, { asset: "kit/volcano", at: [X + 0, -120], s: 9.0, drop: false }, { asset: 'kit/coin', a: Math.max(A[4] + 4, WS(67) - 20), b: A[5] - 1, at: [X + 0.35, 1.8], y: DK + 1.25, s: 0.32, drop: false }], fx: [{ k: 'stars', a: A[4] + 6, b: A[4] + 40, at: [X + -1.6, DK + 1.6, 0.8], s: 0.8 }, { k: 'birds', a: A[4], b: A[5] - 1, at: [X, DK + 6.0, -30], n: 5, dir: 1, off: 8 }, { k: "stars", a: A[4] + 3, b: A[4] + 29, at: [X, DK + 0.5, 1.2], s: 1.1 }, { k: "stars", a: WS(67), b: WS(67) + 28, at: [X + -1.15, DK + 0.5, 2.5], s: 1.1 }] }), glide: true, glideN: 34 },
+    S('b4', A[4], Math.round(A[4] + (A[5] - 1 + 1 - (A[4])) * 0.36) - 1, X, "day", { h: 2.4, d0: 5.6, d1: 4.9, vary: false, hero: { hero: 'any', frame: 'medium', minH: 0.07, main: 1 }, trans: 'dissolve', actors: [Object.assign(pp(X, "CLI", 0, 0.0, 1.3, "smile", { over: { hold: "coin" } }), { gests: [[WS(67) - 4, WS(67) + 46, 'reach']] })], props: [{ asset: "buildings/shop", at: [X + -4.8, -11.0], s: 1.05, ry: 0.35, drop: false }, { asset: "kit/bitcoin", at: [X + -1.5, 0.2], s: 1.0, drop: false }, { asset: "kit/volcano", at: [X + 0, -120], s: 9.0, drop: false }, { asset: 'kit/coin', a: Math.max(A[4] + 4, WS(67) - 20), b: A[5] - 1, at: [X + 1.5, 1.8], y: DK + 1.25, s: 0.32, drop: false }], fx: [{ k: 'stars', a: A[4] + 6, b: A[4] + 40, at: [X + -1.5, DK + 1.6, 0.7], s: 0.8 }, { k: 'birds', a: A[4], b: A[5] - 1, at: [X, DK + 6.0, -30], n: 5, dir: 1, off: 8 }, { k: "stars", a: A[4] + 3, b: A[4] + 29, at: [X, DK + 0.5, 1.2], s: 1.1 }, { k: "stars", a: WS(67), b: WS(67) + 28, at: [X + 0.0, DK + 0.5, 2.5], s: 1.1 }] }), { ...S('b4_d', Math.round(A[4] + (A[5] - 1 + 1 - (A[4])) * 0.36), Math.round(A[4] + (A[5] - 1 + 1 - (A[4])) * 0.6) - 1, X, "day", { h: 2.4, d0: 5.6, d1: 4.9, vary: false, hero: { hero: 'none', detalhe: true }, trans: 'cut', actors: [Object.assign(pp(X, "CLI", 0, 0.0, 1.3, "smile", { over: { hold: "coin" } }), { gests: [[WS(67) - 4, WS(67) + 46, 'reach']] })], props: [{ asset: "buildings/shop", at: [X + -4.8, -11.0], s: 1.05, drop: false, ry: 0.35, drop: false }, { asset: "kit/bitcoin", at: [X + -1.5, 0.2], s: 1.0, drop: false }, { asset: "kit/volcano", at: [X + 0, -120], s: 9.0, drop: false }, { asset: 'kit/coin', a: Math.max(A[4] + 4, WS(67) - 20), b: A[5] - 1, at: [X + 1.5, 1.8], y: DK + 1.25, s: 0.32, drop: false }], fx: [{ k: 'stars', a: A[4] + 6, b: A[4] + 40, at: [X + -1.5, DK + 1.6, 0.7], s: 0.8 }, { k: 'birds', a: A[4], b: A[5] - 1, at: [X, DK + 6.0, -30], n: 5, dir: 1, off: 8 }, { k: "stars", a: A[4] + 3, b: A[4] + 29, at: [X, DK + 0.5, 1.2], s: 1.1 }, { k: "stars", a: WS(67), b: WS(67) + 28, at: [X + 0.0, DK + 0.5, 2.5], s: 1.1 }] }), cam: [{ f: Math.round(A[4] + (A[5] - 1 + 1 - (A[4])) * 0.36), at: [X + -1.5, DK + 0.75, 0.2], d: 4.2, az: 14, el: 10, fov: 44 }, { f: Math.round(A[4] + (A[5] - 1 + 1 - (A[4])) * 0.6) - 1, at: [X + -1.5, DK + 0.75, 0.2], d: 3.4, az: 8, el: 9, fov: 44 }], nocut: true, vary: false, glide: true, glideN: 34 }, { ...S('b4_v', Math.round(A[4] + (A[5] - 1 + 1 - (A[4])) * 0.6), A[5] - 1, X, "day", { h: 2.4, d0: 5.6, d1: 4.9, vary: false, hero: { hero: 'any', frame: 'medium', minH: 0.07, main: 1 }, trans: 'cut', actors: [Object.assign(pp(X, "CLI", 0, 0.0, 1.3, "smile", { over: { hold: "coin" } }), { gests: [[WS(67) - 4, WS(67) + 46, 'reach']] })], props: [{ asset: "buildings/shop", at: [X + -4.8, -11.0], s: 1.05, drop: false, ry: 0.35, drop: false }, { asset: "kit/bitcoin", at: [X + -1.5, 0.2], s: 1.0, drop: false }, { asset: "kit/volcano", at: [X + 0, -120], s: 9.0, drop: false }, { asset: 'kit/coin', a: Math.max(A[4] + 4, WS(67) - 20), b: A[5] - 1, at: [X + 1.5, 1.8], y: DK + 1.25, s: 0.32, drop: false }], fx: [{ k: 'stars', a: A[4] + 6, b: A[4] + 40, at: [X + -1.5, DK + 1.6, 0.7], s: 0.8 }, { k: 'birds', a: A[4], b: A[5] - 1, at: [X, DK + 6.0, -30], n: 5, dir: 1, off: 8 }, { k: "stars", a: A[4] + 3, b: A[4] + 29, at: [X, DK + 0.5, 1.2], s: 1.1 }, { k: "stars", a: WS(67), b: WS(67) + 28, at: [X + 0.0, DK + 0.5, 2.5], s: 1.1 }] }), glide: true, glideN: 34 },
     { ...{ ...S('b5', A[5], Math.round(A[5] + (A[6] - 1 + 1 - (A[5])) * 0.3) - 1, X, "day", { h: 2.6, d0: 25.0, d1: 19.0, el: 11, fov: 46, az0: -38, az1: 32, cx: 0.0, cz: -1.5, hero: { hero: 'none', wide: true }, vary: false, nocut: true, trans: 'dissolve', actors: [pp(X, "CLI", 0, 0.0, -0.4, "surprised"), pp(X, "POV", 0, -8.05, 0.84, "neutral", { look: -0.25, seed: 0 }), pp(X, "POV", 1, -5.79, 1.32, "neutral", { look: 0.25, seed: 1 }), pp(X, "POV", 2, -3.53, 0.96, "neutral", { look: 0.0, seed: 2 }), pp(X, "POV", 3, -2.26, 1.44, "neutral", { look: 0.15, seed: 3 }), pp(X, "POV", 4, 0.0, 1.08, "neutral", { look: -0.25, seed: 0 }), pp(X, "POV", 5, 2.26, 1.56, "neutral", { look: 0.25, seed: 1 }), pp(X, "POV", 6, 3.53, 1.2, "neutral", { look: 0.0, seed: 2 }), pp(X, "POV", 0, 5.79, 0.84, "neutral", { look: 0.15, seed: 3 }), pp(X, "POV", 1, 8.05, 1.32, "neutral", { look: -0.25, seed: 0 }), pp(X, "POV", 2, -6.88, -1.14, "neutral", { look: 0.25, seed: 1 }), pp(X, "POV", 3, -4.62, -0.66, "neutral", { look: 0.0, seed: 2 }), pp(X, "POV", 4, -3.35, -1.02, "neutral", { look: 0.15, seed: 3 })], props: [{ asset: "kit/volcano", at: [X + 0, -120], s: 9.0, drop: false }], fx: [{ k: 'birds', a: A[5], b: A[6] - 1, at: [X, DK + 7.5, -30], n: 6, dir: 1, off: 15 }, txt(X, WS(71, -2), A[6] - 1, "CARTEIRA CHIVO", '#fff6e0', '#27408b', 4.8, { s: 1.5, up: 0.42 }), { k: "stars", a: A[5] + 2, b: A[5] + 28, at: [X, DK + 0.5, 1.2], s: 1.1 }] }), nocut: true }, cam: [{ f: A[5], at: [X + 0.0, DK + 2.2, 0.5], d: 8.5, az: -26, el: 2, fov: 44 }, { f: Math.round(A[5] + (A[6] - 1 + 1 - (A[5])) * 0.3) - 1, at: [X + 1.0, DK + 2.2, 0.5], d: 7.4, az: -14, el: 3, fov: 44 }], nocut: true, vary: false }, { ...{ ...S('b5_1', Math.round(A[5] + (A[6] - 1 + 1 - (A[5])) * 0.3), Math.round(A[5] + (A[6] - 1 + 1 - (A[5])) * 0.55) - 1, X, "day", { h: 2.6, d0: 25.0, d1: 19.0, el: 11, fov: 46, az0: -38, az1: 32, cx: 0.0, cz: -1.5, hero: { hero: 'none', wide: true }, vary: false, nocut: true, trans: 'cut', actors: [pp(X, "CLI", 0, 0.0, -0.4, "surprised"), pp(X, "POV", 0, -8.05, 0.84, "neutral", { look: -0.25, seed: 0 }), pp(X, "POV", 1, -5.79, 1.32, "neutral", { look: 0.25, seed: 1 }), pp(X, "POV", 2, -3.53, 0.96, "neutral", { look: 0.0, seed: 2 }), pp(X, "POV", 3, -2.26, 1.44, "neutral", { look: 0.15, seed: 3 }), pp(X, "POV", 4, 0.0, 1.08, "neutral", { look: -0.25, seed: 0 }), pp(X, "POV", 5, 2.26, 1.56, "neutral", { look: 0.25, seed: 1 }), pp(X, "POV", 6, 3.53, 1.2, "neutral", { look: 0.0, seed: 2 }), pp(X, "POV", 0, 5.79, 0.84, "neutral", { look: 0.15, seed: 3 }), pp(X, "POV", 1, 8.05, 1.32, "neutral", { look: -0.25, seed: 0 }), pp(X, "POV", 2, -6.88, -1.14, "neutral", { look: 0.25, seed: 1 }), pp(X, "POV", 3, -4.62, -0.66, "neutral", { look: 0.0, seed: 2 }), pp(X, "POV", 4, -3.35, -1.02, "neutral", { look: 0.15, seed: 3 })], props: [{ asset: "kit/volcano", at: [X + 0, -120], s: 9.0, drop: false }], fx: [{ k: 'birds', a: A[5], b: A[6] - 1, at: [X, DK + 7.5, -30], n: 6, dir: 1, off: 15 }, txt(X, WS(71, -2), A[6] - 1, "CARTEIRA CHIVO", '#fff6e0', '#27408b', 4.8, { s: 1.5, up: 0.42 }), { k: "stars", a: A[5] + 2, b: A[5] + 28, at: [X, DK + 0.5, 1.2], s: 1.1 }] }), nocut: true }, cam: [{ f: Math.round(A[5] + (A[6] - 1 + 1 - (A[5])) * 0.3), at: [X + -6.0, DK + 1.8, 0.0], d: 11, az: 30, el: 5, fov: 46 }, { f: Math.round(A[5] + (A[6] - 1 + 1 - (A[5])) * 0.55) - 1, at: [X + 4.0, DK + 1.8, 0.0], d: 11, az: 18, el: 5, fov: 46, ease: "lin" }], nocut: true, vary: false, glide: true }, { ...{ ...S('b5_2', Math.round(A[5] + (A[6] - 1 + 1 - (A[5])) * 0.55), A[6] - 1, X, "day", { h: 2.6, d0: 25.0, d1: 19.0, el: 11, fov: 46, az0: -38, az1: 32, cx: 0.0, cz: -1.5, hero: { hero: 'none', wide: true }, vary: false, nocut: true, trans: 'cut', actors: [pp(X, "CLI", 0, 0.0, -0.4, "surprised"), pp(X, "POV", 0, -8.05, 0.84, "neutral", { look: -0.25, seed: 0 }), pp(X, "POV", 1, -5.79, 1.32, "neutral", { look: 0.25, seed: 1 }), pp(X, "POV", 2, -3.53, 0.96, "neutral", { look: 0.0, seed: 2 }), pp(X, "POV", 3, -2.26, 1.44, "neutral", { look: 0.15, seed: 3 }), pp(X, "POV", 4, 0.0, 1.08, "neutral", { look: -0.25, seed: 0 }), pp(X, "POV", 5, 2.26, 1.56, "neutral", { look: 0.25, seed: 1 }), pp(X, "POV", 6, 3.53, 1.2, "neutral", { look: 0.0, seed: 2 }), pp(X, "POV", 0, 5.79, 0.84, "neutral", { look: 0.15, seed: 3 }), pp(X, "POV", 1, 8.05, 1.32, "neutral", { look: -0.25, seed: 0 }), pp(X, "POV", 2, -6.88, -1.14, "neutral", { look: 0.25, seed: 1 }), pp(X, "POV", 3, -4.62, -0.66, "neutral", { look: 0.0, seed: 2 }), pp(X, "POV", 4, -3.35, -1.02, "neutral", { look: 0.15, seed: 3 })], props: [{ asset: "kit/volcano", at: [X + 0, -120], s: 9.0, drop: false }], fx: [{ k: 'birds', a: A[5], b: A[6] - 1, at: [X, DK + 7.5, -30], n: 6, dir: 1, off: 15 }, txt(X, WS(71, -2), A[6] - 1, "CARTEIRA CHIVO", '#fff6e0', '#27408b', 4.8, { s: 1.5, up: 0.42 }), { k: "stars", a: A[5] + 2, b: A[5] + 28, at: [X, DK + 0.5, 1.2], s: 1.1 }] }), nocut: true }, cam: [{ f: Math.round(A[5] + (A[6] - 1 + 1 - (A[5])) * 0.55), at: [X + 0.0, DK + 1.4, 0.0], d: 15, az: 8, el: 12, fov: 48 }, { f: A[6] - 1, at: [X + 0.0, DK + 1.0, -3.0], d: 34, az: -16, el: 30, fov: 48 }], nocut: true, vary: false, glide: true },
     S('b6', A[6], A[7] - 1, X_harbor, "day", { h: 2.3, d0: 8.4, d1: 7.4, hero: { hero: 'any', frame: 'medium', minH: 0.07, main: 2 }, trans: 'dissolve', actors: [pp(X_harbor, "CLI", 0, -1.15, 1.3, "nervous", { pose: 'argue', inter: { k: 'lunge', a: Math.round(A[6] + (A[7] - 1 - (A[6])) * 0.12), b: Math.round(A[6] + (A[7] - 1 - (A[6])) * 0.82), dir: 1, n: 2, ph: 0 } }), pp(X_harbor, "POV", 0, 1.15, 1.0, "shock", { pose: 'argue', inter: { k: 'lunge', a: Math.round(A[6] + (A[7] - 1 - (A[6])) * 0.2), b: Math.round(A[6] + (A[7] - 1 - (A[6])) * 0.9), dir: -1, n: 2, ph: 3.14 } })], props: [{ asset: "buildings/shop", at: [X_harbor + -4.8, -11.0], s: 1.05, ry: 0.35, drop: false }, { asset: "kit/volcano", at: [X_harbor + 0, -120], s: 9.0, drop: false }], fx: [{ k: 'birds', a: A[6], b: A[7] - 1, at: [X_harbor, DK + 4.5, -30], n: 4, dir: -1, off: 8 }, { k: 'burst', a: A[6] + 3, at: [X_harbor + -1.15, DK + 1.8, 3.2], s: 1.2 }] }),
     { ...S('b7', A[7], A[8] - 1, X_harbor, "day", { h: 2.4, d0: 19.0, d1: 16.0, el: 6, fov: 46, az0: -38, az1: 32, cx: 0.0, cz: -1.5, hero: { hero: 'none', wide: true }, vary: false, nocut: true, trans: 'dissolve', actors: [pp(X_harbor, "BUK", 0, -1.15, -0.4, "grin"), pp(X_harbor, "DEP", 0, 1.15, 0.2, "laugh"), pp(X_harbor, "POV", 0, -8.05, 0.84, "neutral", { look: -0.25, seed: 0 }), pp(X_harbor, "CLI", 1, -5.79, 1.32, "neutral", { look: 0.25, seed: 1 }), pp(X_harbor, "POV", 2, -3.53, 0.96, "neutral", { look: 0.0, seed: 2 }), pp(X_harbor, "CLI", 3, -2.26, 1.44, "neutral", { look: 0.15, seed: 3 }), pp(X_harbor, "POV", 4, 0.0, 1.08, "neutral", { look: -0.25, seed: 0 }), pp(X_harbor, "CLI", 5, 2.26, 1.56, "neutral", { look: 0.25, seed: 1 })], props: [{ asset: "kit/globe", at: [X_harbor + 3.15, -0.8], s: 1.1, drop: false }, { asset: "kit/volcano", at: [X_harbor + 0, -120], s: 9.0, drop: false }], fx: [{ k: 'birds', a: A[7], b: A[8] - 1, at: [X_harbor, DK + 6.0, -30], n: 5, dir: -1, off: 15 }] }), nocut: true },
@@ -24,4 +24,4 @@ const SPEC = {
   ],
 };
 
-// FOLHA3 d3adfb821c35 22 acoes=21 faltando=0
+// FOLHA3 eb97084ca23d 20 acoes=19 faltando=0

diff --git a/ferramenta-shorts/stories/bitcoin2021/cues.py b/ferramenta-shorts/stories/bitcoin2021/cues.py
@@ -12,7 +12,6 @@ ding(F(int(_W(48) - 2)), 0.5, 1319)
 sting(F(_A[3] + 10))
 thump(F(_A[3] + 40))
 whoosh(F(_A[4]), 0.4, 0.35)
-gibber(F(_A[4] + int((_A[5] - _A[4]) * 0.2)), 4, 200, 0.12); gibber(F(_A[4] + int((_A[5] - _A[4]) * 0.58)), 4, 290, 0.12)
 ding(F(_A[4] + 3))
 whoosh(F(_A[5]), 0.4, 0.35)
 ding(F(int(_W(71) - 2)), 0.5, 1175)

diff --git a/ferramenta-shorts/stories/bitcoin2021/folha2_producao.md b/ferramenta-shorts/stories/bitcoin2021/folha2_producao.md
@@ -44,11 +44,11 @@ Coordenadas de cada cena para modelagem, animacao e camera, com os RISCOS que o 
 
 ## Cena b4 - Com isso, dava para pagar tudo com bitcoin.
 - Cenario: street | luz: dia | clima: limpo
-- Camera: two = plano medio nos dois; camera empurra devagar e muda de angulo a cada ~2 s + CLOSE NO OBJETO no meio da cena (vai e volta)
+- Camera: close = close no rosto; empurra devagar + CLOSE NO OBJETO no meio da cena (vai e volta)
 - Takes: 2 take(s) de ~1,8 s, deslizando de um para o outro: direita baixa -> frente | no meio: desliza ate o objeto (close), segura ~1,5 s e volta
-- Personagens principais (2): CLI (variante 0, expressao smile, segura coin); POV (variante 0, expressao grin)
-- Animacao: conversar | interacao: entregar
-- Objetos/modelos: kit/stall, kit/bitcoin, kit/volcano
+- Personagens principais (1): CLI (variante 0, expressao smile, segura coin)
+- Animacao: encena
+- Objetos/modelos: kit/bitcoin, kit/volcano
 - CONFERIR NA FOLHA DE CONTATO (o que a narracao cita tem que aparecer): bitcoin, isso
 - RISCOS: nenhum
 
@@ -99,14 +99,13 @@ Objeto | Cenas | Situacao | O que fazer
 ---|---|---|---
 kit/bitcoin | b0, b2, b4, b8 | pronto (HEROI: aparece em close) | conferir na folha de contato se le bem; se parecer caixote, refazer com formas.py
 kit/volcano | b0, b1, b3, b4, b5, b6, b7, b8 | pronto | conferir na folha de contato se le bem; se parecer caixote, refazer com formas.py
-kit/stall | b4 | pronto | conferir na folha de contato se le bem; se parecer caixote, refazer com formas.py
 kit/globe | b7 | pronto | conferir na folha de contato se le bem; se parecer caixote, refazer com formas.py
 kit/coin | b8 | pronto | conferir na folha de contato se le bem; se parecer caixote, refazer com formas.py
 
 
 ## Video inteiro
-- Objeto heroi: kit/bitcoin | grandes momentos: b3, b5 | planos abertos: 4 | mistura: close 4% | medio 62% | aberto 28% | detalhe 6%
-- Interacoes: b0 avanca e o outro recua, b2 o outro se aproxima, b4 entregar, b6 discutir, b8 insiste
+- Objeto heroi: kit/bitcoin | grandes momentos: b3, b5 | planos abertos: 4 | mistura: close 9% | medio 57% | aberto 28% | detalhe 6%
+- Interacoes: b0 avanca e o outro recua, b2 o outro se aproxima, b6 discutir, b8 insiste
 - RISCOS GERAIS: nenhum
 
 ## RESUMO: 0 risco(s) em aberto - pode renderizar

diff --git a/ferramenta-shorts/stories/bitcoin2021/folha3_acao.md b/ferramenta-shorts/stories/bitcoin2021/folha3_acao.md
@@ -1,7 +1,7 @@
 # FOLHA 3 - ACOES - Poder e Fama EP 09 - O País do Bitcoin
 
 Catalogo de TODAS as acoes do roteiro, frase por frase, com o instante (segundos) e a animacao que a ferramenta executa. Gerada pelo MODO DE ACAO (mkvideo.py); conferir no prechecar.
-**Resumo:** 9 frases, 21 acoes catalogadas, 21 com animacao, 0 faltando -> pronto para renderizar
+**Resumo:** 9 frases, 19 acoes catalogadas, 19 com animacao, 0 faltando -> pronto para renderizar
 
 
 ## Cena b0 - 0.2s a 5.4s - 22 palavras - plano two
@@ -38,15 +38,13 @@ Catalogo de TODAS as acoes do roteiro, frase por frase, com o instante (segundos
 | 1 | - | BATALHA | tropa em combate: tiros piscando pela tropa, soldados caindo | OK |
 | 2 | - | PLACA | 7 DE SETEMBRO DE 2021 | OK |
 
-## Cena b4 - 19.5s a 21.5s - 8 palavras - plano two
+## Cena b4 - 19.5s a 21.5s - 8 palavras - plano close
 > "Com isso, dava para pagar tudo com bitcoin."
 
 | # | palavra (instante) | acao catalogada | animacao executada | ok? |
 |---|---|---|---|---|
 | 1 | pagar (20.8s) | EFEITO: stars | estrelinhas + som | OK |
 | 2 | pagar (20.8s) | ACAO: paga | estende a mao com moedas + brilho | OK |
-| 3 | - | INTERACAO | entregar | OK |
-| 4 | - | ATUACAO | conversar | OK |
 
 ## Cena b5 - 21.7s a 25.3s - 9 palavras - plano orbit
 > "O governo lançou até uma carteira digital, chamada Chivo."

diff --git a/ferramenta-shorts/stories/cybertruck2019/revisao_storyboard.md b/ferramenta-shorts/stories/cybertruck2019/revisao_storyboard.md
@@ -1,0 +1,8 @@
+b0: CORRIGIDO - personagem cortado na borda e a picape escondida atras dele -> plano group com a picape Cybertruck mais ao fundo, mapa da CALIFORNIA, Musk e o designer apresentando o Cybertruck.
+b1: OK - close de Musk sorrindo na rua com a picape Cybertruck ao lado e o cenario de Los Angeles, na apresentacao disse que as janelas eram de vidro super resistente.
+b2: OK - o designer segurando a esfera de aco ao lado de Musk com a picape atras, Franz von Holzhausen jogou uma esfera de aco na janela.
+b3: OK - plateia assustada ao redor de Musk e do designer, efeito de estrela rachando no alto, o vidro rachou ao vivo na frente de todo mundo.
+b4: OK - designer nervoso e Musk surpreso diante da picape com o efeito de rachadura, ele tentou de novo em outra janela e ela tambem rachou.
+b5: OK - close de Musk sorrindo explicando com a esfera de aco no canto, depois disse na internet que nos ensaios a esfera nao arranhou a janela.
+b6: OK - plateia no estadio rindo com o globo e estrelas, Musk e o designer rindo, a plateia riu a internet tambem e a cena deu o que falar no mundo.
+b7: OK - Musk rindo ao lado do designer com a picape e a esfera de aco no chao, uma picape uma esfera e uma janela que nao aguentou num lancamento inesquecivel.

diff --git a/ferramenta-shorts/stories/bitcoin2021/preproducao.md b/ferramenta-shorts/stories/bitcoin2021/preproducao.md
@@ -8,7 +8,7 @@ b0 | street | two | 2 | conversar, INTERAGEM: avanca e o outro recua | kit/bitco
 b1 | street | reveal | 9 | encena | kit/volcano | - | -
 b2 | interior pedra | group | 3 | conversar, INTERAGEM: o outro se aproxima | kit/bitcoin | - | -
 b3 | harbor | crowd | 10 | batalha | kit/volcano | - | -
-b4 | street | two | 2 | conversar, INTERAGEM: entregar | kit/stall, kit/bitcoin, kit/volcano | coin | -
+b4 | street | close | 1 | encena | kit/bitcoin, kit/volcano | coin | -
 b5 | street | orbit | 13 | batalha | kit/volcano | - | -
 b6 | harbor | two | 2 | discutir, INTERAGEM: discutir | kit/volcano | - | -
 b7 | harbor | orbit | 8 | parados (so fala e pisca) | kit/globe, kit/volcano | - | -
@@ -16,7 +16,7 @@ b8 | countryside | two | 3 | conversar, INTERAGEM: insiste | kit/bitcoin, kit/vo
 
 OBJETO HEROI: kit/bitcoin - aparece em 4 cena(s), close nele em 2
 GRANDES MOMENTOS (plano aberto com multidao, efeito e som): 2 -> b3, b5
-Interacoes entre personagens: b0 avanca e o outro recua, b2 o outro se aproxima, b4 entregar, b6 discutir, b8 insiste
+Interacoes entre personagens: b0 avanca e o outro recua, b2 o outro se aproxima, b6 discutir, b8 insiste
 
 Cenas com personagens parados: 1 de 9
 FALTA MODELAR: nada

diff --git a/ferramenta-shorts/stories/bitcoin2021/plano.md b/ferramenta-shorts/stories/bitcoin2021/plano.md
@@ -6,11 +6,11 @@ b0 | two | -  | - | dinheiro (stars + som de sino); encena: paga (reach) @20 (ac
 b1 | reveal | -  | tropa, mapa | encena: pensa (think) @10 (acao + som de efeito) | -
 b2 | group | -  | interior | - | -
 b3 | crowd | -  | batalha aberta com tiros, tropa, placa: 7 DE SETEMBRO DE 2021 | - | -
-b4 | two | dia  | objeto na mao | pagar (stars + som de sino); encena: paga (reach) @4 (acao + som de efeito) | -
+b4 | close | dia  | objeto na mao | pagar (stars + som de sino); encena: paga (reach) @4 (acao + som de efeito) | -
 b5 | orbit | -  | batalha aberta com tiros, tropa, placa: CARTEIRA CHIVO | - | -
 b6 | two | -  | - | - | -
 b7 | orbit | -  | tropa | - | -
 b8 | two | -  | - | encena: paga (reach) @1 (acao + som de efeito) | -
 
-Mistura de planos: close 4% | medio 62% | aberto 28% | detalhe 6%  (canal: close 10% | medio+corpo 67% | aberto 19% | detalhe 5-15%)
-Planos abertos: 4 | AVISOS: quase sem close (ponha "shot": "close" numa fala ou reacao)
+Mistura de planos: close 9% | medio 57% | aberto 28% | detalhe 6%  (canal: close 10% | medio+corpo 67% | aberto 19% | detalhe 5-15%)
+Planos abertos: 4 | dentro do padrao do canal
